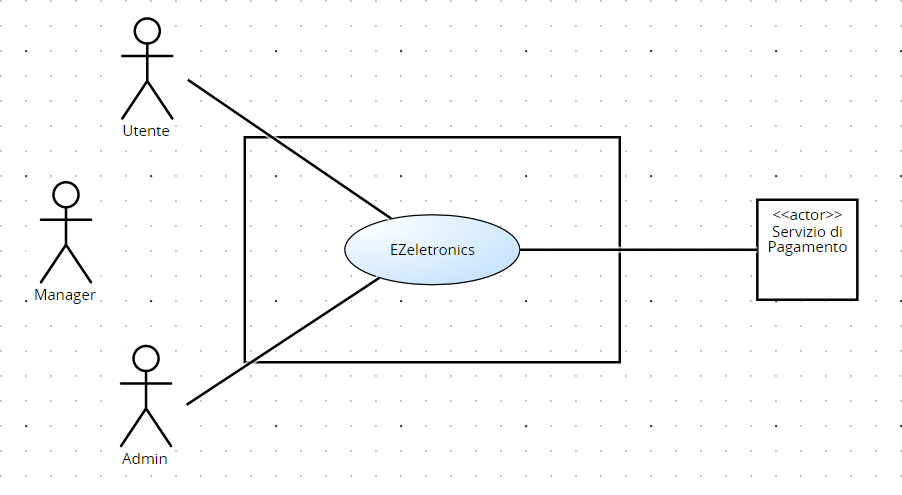
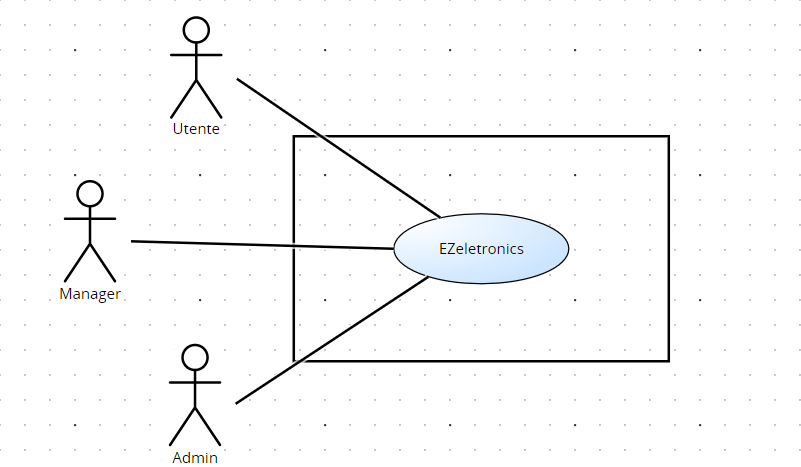
correcting stakeholders, context diagram, interfaces

diff --git a/RequirementsDocumentV1.md b/RequirementsDocumentV1.md
@@ -59,7 +59,6 @@ EZElectronics (read EaSy Electronics) is a software application designed to help
 | Cliente | Smartphone / PC | GUI (tbd – mostrare i prodotti, riempire il carrello, visionare vecchi carrelli, modificare carrello, effettuare l’ordine) |
 | Manager | Smartphone / PC | GUI (tbd – inserire prodotti, modificare prodotti) |
 | Admin | PC | GUI (tbd – tutte le funzionalità precedenti e gestione account) |
-| Servizio di Pagamento | Internet | Link al sito del servizio di pagamento |
 
 # Stories and personas
 
@@ -94,9 +93,6 @@ EZElectronics (read EaSy Electronics) is a software application designed to help
 | FR3.3 | Esecuzione del pagamento del carrello |
 |  **FR4**  | **Controllo prezzi** |
 | FR4.1 | Gestione aggiornamento prezzi |
-|  **FR5**  | **Gestione dei pagamenti** |
-| FR5.1 | Richiesta pagamento |
-| FR5.2 | Gestione dati di pagamento |
 
 ## Non Functional Requirements
 
